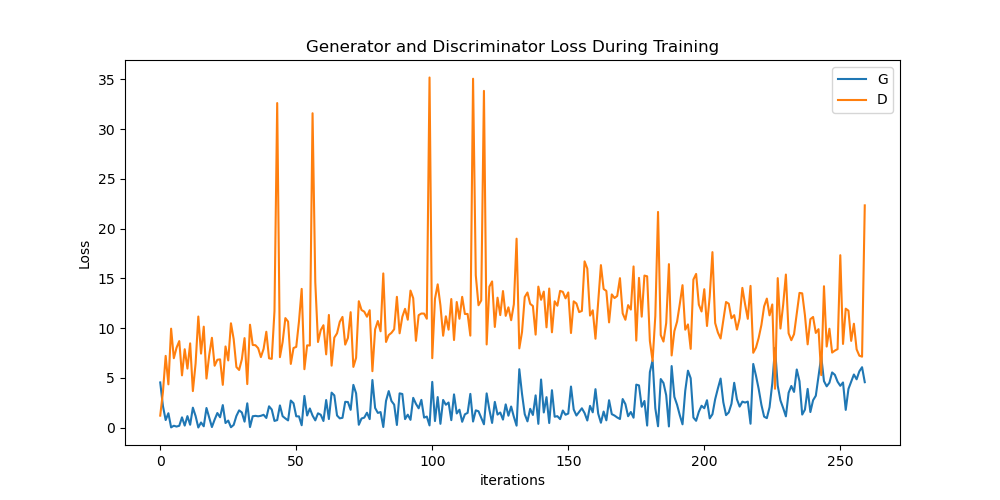
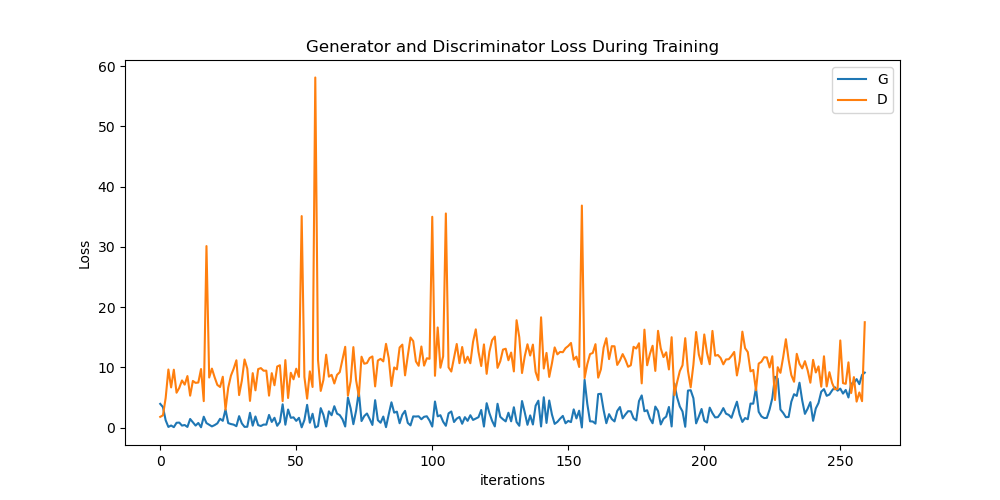
Bugfix and updated .gitignore

diff --git a/generic_gan/train_basic_gan.py b/generic_gan/train_basic_gan.py
@@ -73,7 +73,7 @@ if __name__ == '__main__':
     disc_device = None
     if torch.cuda.is_available():
         ngpu = torch.cuda.device_count()
-        print(f'Using {ngpu} GPUs')
+        print(f'Using {ngpu} GPU(s)')
         # Decide which device we want to run on
         gen_device = torch.device("cuda:0" if ngpu > 0 else "cpu")
         disc_device = torch.device("cuda:1" if ngpu > 1 else "cuda:0")
@@ -109,10 +109,6 @@ if __name__ == '__main__':
     # print(netD)
 
     criterion = nn.BCELoss()
-
-    # Create batch of latent vectors that we will use to visualize
-    #  the progression of the generator
-    fixed_noise = torch.randn(64, nz, 1, 1, device=gen_device)
 
     # Establish convention for real and fake labels during training
     real_label = 1.
@@ -220,14 +216,19 @@ if __name__ == '__main__':
             D_losses.append(errD.item())
 
             # Check how the generator is doing by saving G's output on fixed_noise
-            if (iters % 200 == 0) or ((epoch == num_epochs - 1) and (i == len(dataloader) - 1)):
-                with torch.no_grad():
-                    fake = netG(fixed_noise).detach().cpu()
-                # img_list.append(vutils.make_grid(fake, padding=2, normalize=True))
-                # fake_images = np.transpose(vutils.make_grid(fake[:,:3,:,:], padding=2, normalize=True), (1, 2, 0))
-                # Nomalize the image to be between 0 and 1 for saving
-                fake_images = [np.transpose((fake[i, :3, :, :] * 0.5) + 0.5, (1, 2, 0)) for i in range(fake.shape[0])]
+            # if (iters % 200 == 0) or ((epoch == num_epochs - 1) and (i == len(dataloader) - 1)):
+            #     with torch.no_grad():
+            #         fake = netG(fixed_noise).detach().cpu()
+            #     # img_list.append(vutils.make_grid(fake, padding=2, normalize=True))
+            #     # fake_images = np.transpose(vutils.make_grid(fake[:,:3,:,:], padding=2, normalize=True), (1, 2, 0))
+            #     # Nomalize the image to be between 0 and 1 for saving
+            #     fake_images = [np.transpose((fake[i, :3, :, :] * 0.5) + 0.5, (1, 2, 0)) for i in range(fake.shape[0])]
             iters += 1
+
+    # Save some fake images
+    with torch.no_grad():
+        fake = netG(torch.randn(64, nz, 1, 1, device=gen_device)).detach().cpu()
+        fake_images = [np.transpose((fake[i, :3, :, :] * 0.5) + 0.5, (1, 2, 0)) for i in range(fake.shape[0])]
 
     end = time.time()
     time_taken = end - start
@@ -250,7 +251,7 @@ if __name__ == '__main__':
     plt.ylabel("Loss")
     plt.legend()
     # plt.show()
-    plt.savefig('losses.png')
+    plt.savefig(f'losses_{num_epochs}_epochs.png')
 
     # Save the fake images
     # cv2.imwrite('fake_images_' + str(num_epochs) + '.jpg', cv2.cvtColor(fake_images.numpy() * 255, cv2.COLOR_RGB2BGR))

diff --git a/generic_gan/discriminator.py b/generic_gan/discriminator.py
@@ -25,17 +25,8 @@ class Discriminator(nn.Module):
             nn.Conv2d(num_hidden_ch * 8, num_hidden_ch * 16, 4, 2, 1, bias=False),
             nn.BatchNorm2d(num_hidden_ch * 16),
             nn.LeakyReLU(0.2, inplace=True),
-<<<<<<< Updated upstream
-            # state size. ``(ndf*16) x 8 x 8```
-            nn.Conv2d(num_hidden_ch * 16, num_hidden_ch * 32, 4, 2, 1, bias=False),
-            nn.BatchNorm2d(num_hidden_ch * 32),
-            nn.LeakyReLU(0.2, inplace=True),
-            # state size. ``(ndf*32) x 4 x 4``
-            nn.Conv2d(num_hidden_ch * 32, 1, 4, 1, 0, bias=False),
-=======
-            # state size. ``(ndf*32) x 8 x 8``
+            # state size. ``(ndf*16) x 8 x 8``
             nn.Conv2d(num_hidden_ch * 16, 1, 4, 1, 0, bias=False),
->>>>>>> Stashed changes
             nn.Sigmoid()
             # state size. 1 x 1 x 1
         )

diff --git a/generic_gan/generator.py b/generic_gan/generator.py
@@ -28,13 +28,8 @@ class Generator(nn.Module):
             nn.ReLU(True),
             # state size. ``(nc) x 64 x 64``
             nn.ConvTranspose2d(num_hidden_ch, num_img_ch, 4, 2, 1, bias=False),
-            nn.Tanh()
-<<<<<<< Updated upstream
-            # state size. ``(nc) x 256 x 156``
-=======
+            nn.Tanh())
             # state size. ``(nc) x 128 x 128``
->>>>>>> Stashed changes
-        )
 
     def forward(self, input):
         return self.main(input)
